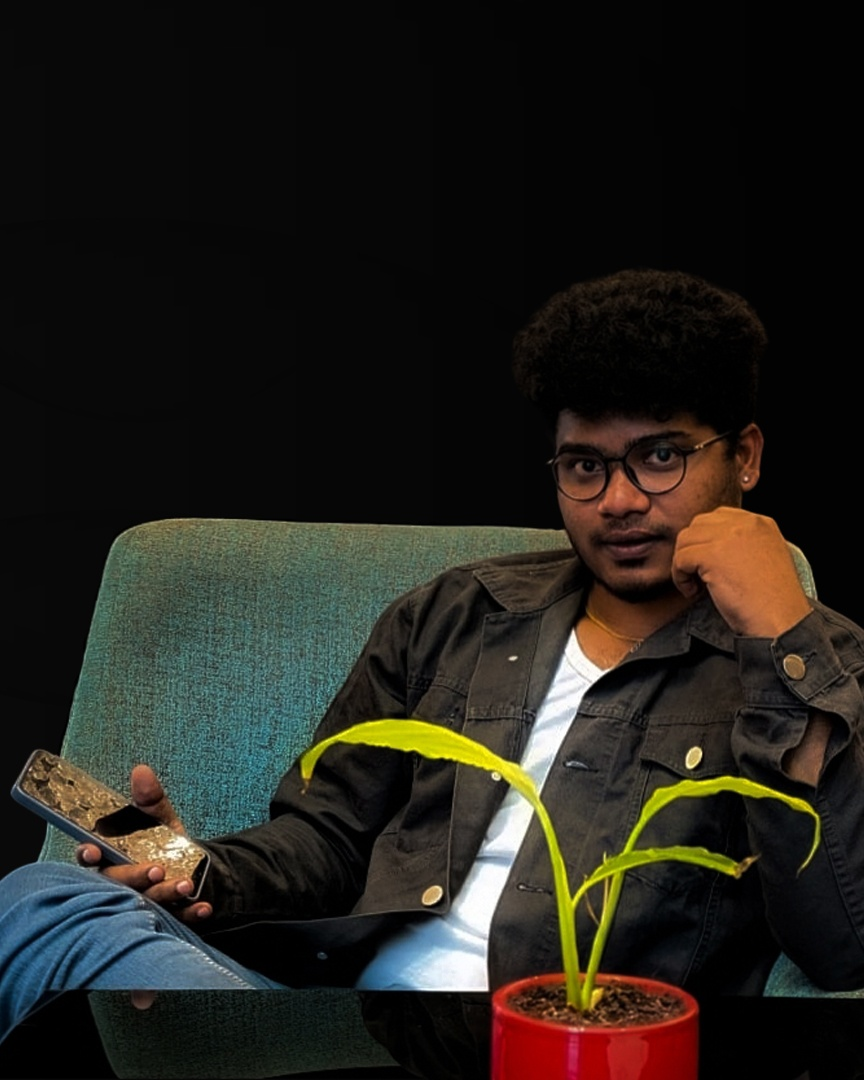
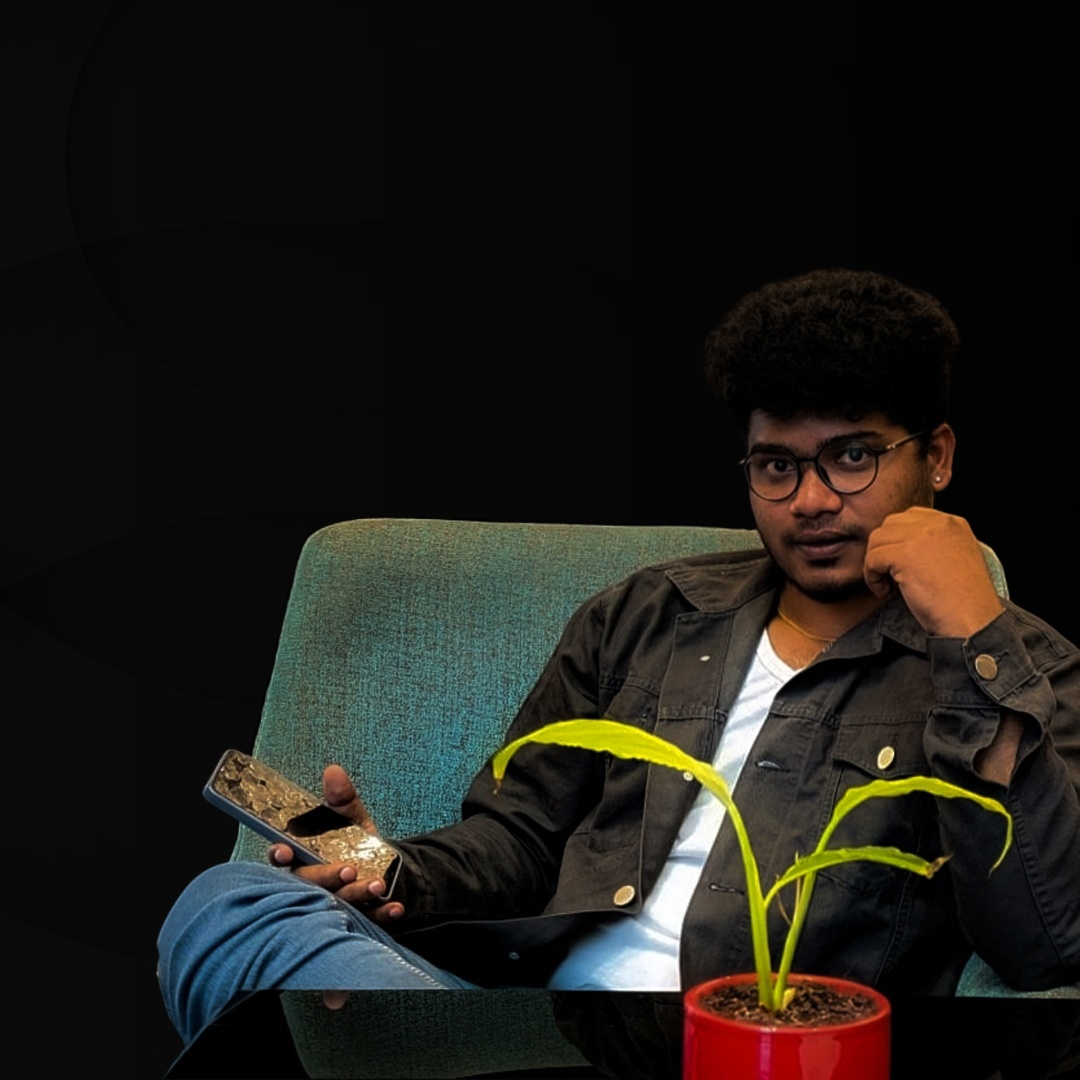
feat(hero): increase portrait console card width and optimize balanced framing

diff --git a/src/components/HeroSection.tsx b/src/components/HeroSection.tsx
@@ -113,9 +113,9 @@ export default function HeroSection() {
         </div>
 
         {/* Main 2-Column Hero Grid: Left Content + Right Unique Interactive Hardware Station */}
-        <div className="grid lg:grid-cols-12 gap-10 lg:gap-14 items-center">
+        <div className="grid lg:grid-cols-12 gap-8 lg:gap-12 items-center">
           {/* Left Column: Headline, Bio, Buttons, Quote */}
-          <div className="lg:col-span-7 flex flex-col gap-6">
+          <div className="lg:col-span-7 xl:col-span-6 flex flex-col gap-6">
             <div className="flex items-center gap-2">
               <span className="inline-flex items-center gap-1.5 px-3 py-1 rounded-full text-xs mono font-semibold bg-verm/10 text-verm border border-verm/20">
                 <Code2 className="w-3.5 h-3.5" />
@@ -198,8 +198,8 @@ export default function HeroSection() {
           </div>
 
           {/* Right Column: Unique Interactive Developer ID Console & Portrait */}
-          <div className="lg:col-span-5 flex justify-center lg:justify-end rv in">
-            <div className="relative w-full max-w-[370px] sm:max-w-[410px] group">
+          <div className="lg:col-span-5 xl:col-span-6 flex justify-center lg:justify-end rv in">
+            <div className="relative w-full max-w-[460px] sm:max-w-[500px] lg:max-w-[520px] xl:max-w-[550px] group">
               {/* Ambient Glow Halo */}
               <div className="absolute -inset-2 rounded-[2.5rem] bg-gradient-to-tr from-verm/20 via-emerald-500/15 to-transparent blur-2xl opacity-60 group-hover:opacity-100 transition-opacity duration-700 -z-10" />
 
@@ -223,7 +223,7 @@ export default function HeroSection() {
                 </div>
 
                 {/* Photo Viewport: Focused on Praveen's Face with Zero Obstruction */}
-                <div className="relative w-full aspect-[4/4.2] overflow-hidden bg-black">
+                <div className="relative w-full aspect-[4/3.8] overflow-hidden bg-black">
                   <img
                     src="/images/praveen-hero.jpg"
                     alt="Praveen Kumar S. — Front-End Developer"
